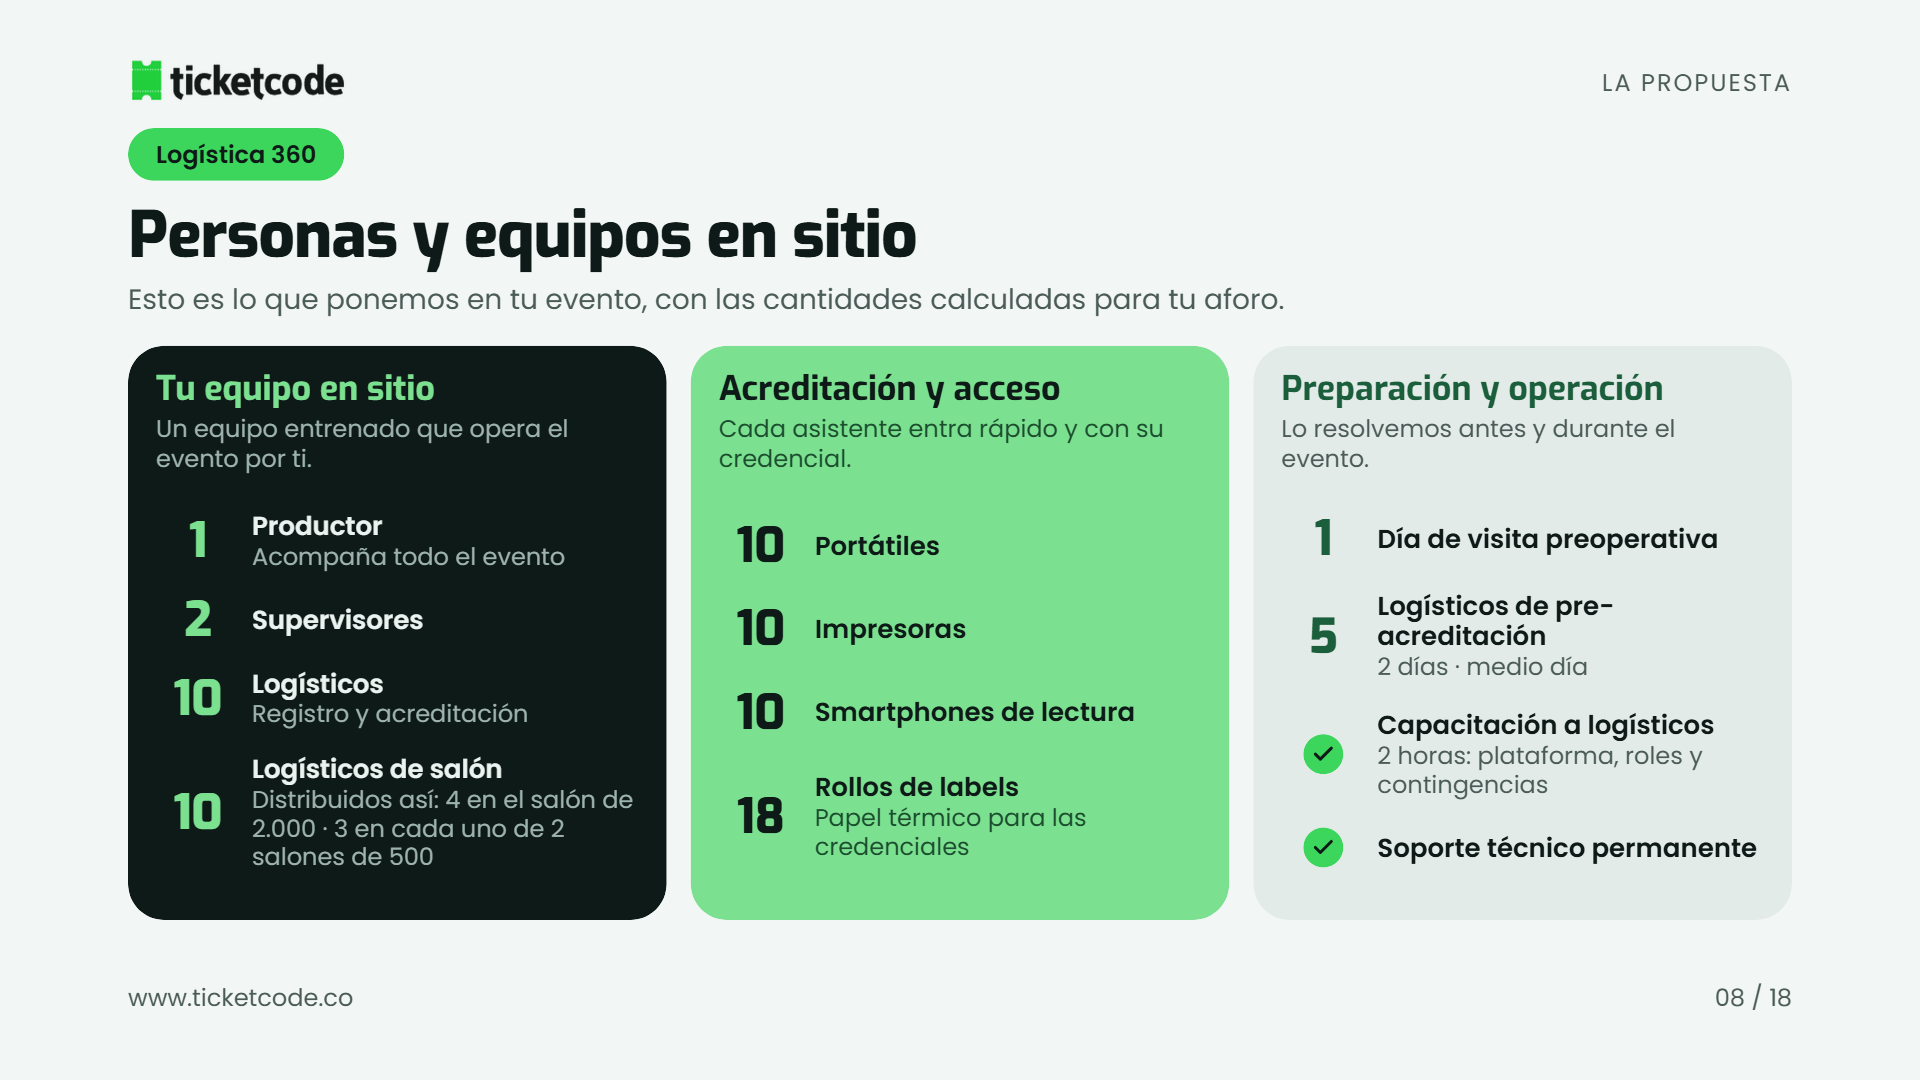
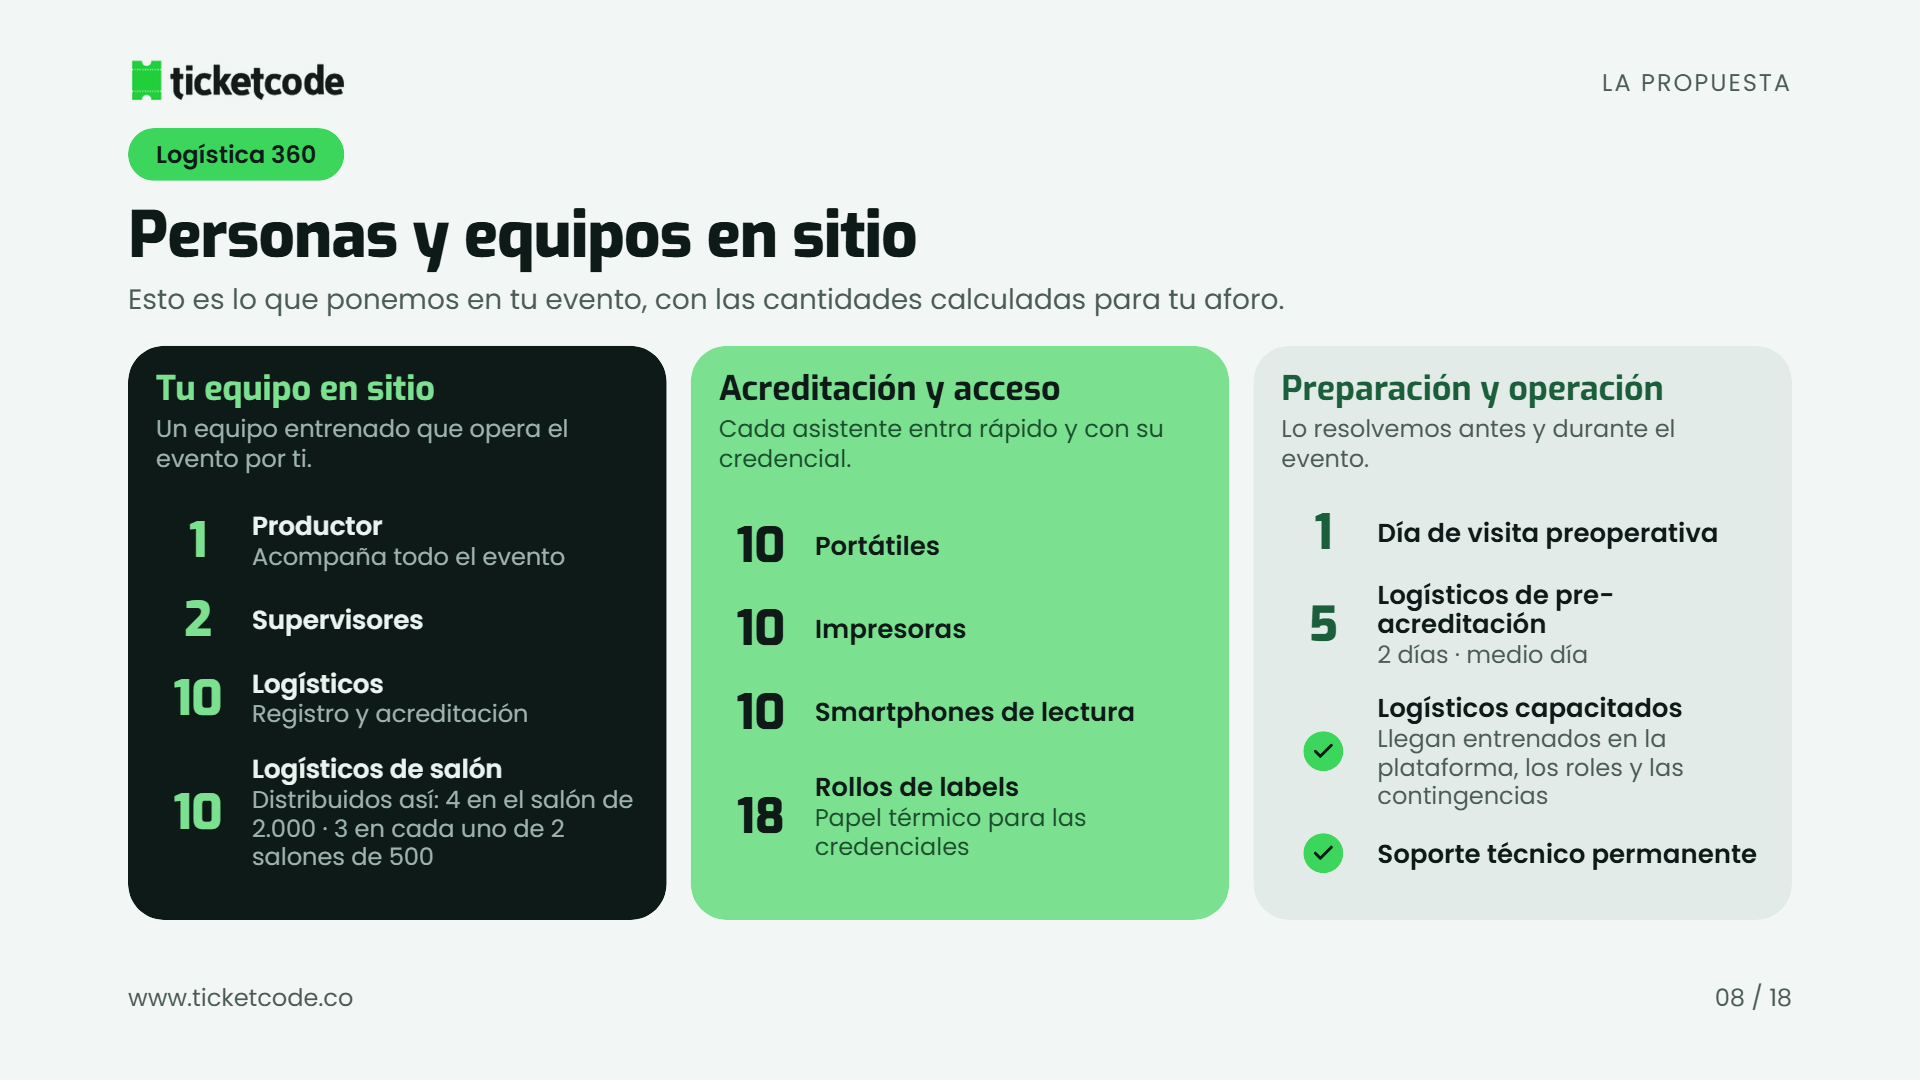
Logística: la fila de capacitación pasa a 'Logísticos capacitados'
Distingue el entrenamiento del personal de Ticketcode (incluido en Logística 360) de la Capacitación a tu equipo, que es el servicio de cobro para el personal del organizador.

Changed region(s): [[0.6875, 0.4889, 0.9062, 0.825]]

diff --git a/lib/data/logistica-cantidades.ts b/lib/data/logistica-cantidades.ts
@@ -132,7 +132,8 @@ export function cantidadesLogistica(
   if (sin) {
     if (capacitacionStaff) operacion.push({ cantidad: null, etiqueta: "Capacitación a tu equipo", detalle: "2 horas con Ticketcode: plataforma, roles y contingencias" });
   } else {
-    if (lleva(/capacitaciones a logisticos/)) operacion.push({ cantidad: null, etiqueta: "Capacitación a logísticos", detalle: "2 horas: plataforma, roles y contingencias" });
+    // Ticketcode entrena a su propio personal (va incluido). No es la "Capacitación a tu equipo" de cobro, que es para el personal del organizador.
+    if (lleva(/capacitaciones a logisticos/)) operacion.push({ cantidad: null, etiqueta: "Logísticos capacitados", detalle: "Llegan entrenados en la plataforma, los roles y las contingencias" });
     if (lleva(/soporte tecnico/)) operacion.push({ cantidad: null, etiqueta: "Soporte técnico permanente" });
   }
 
